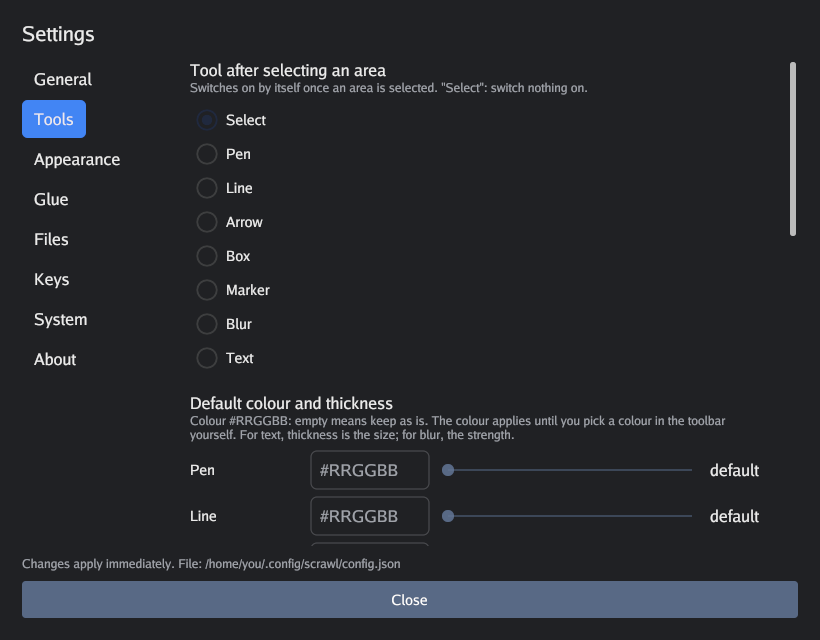
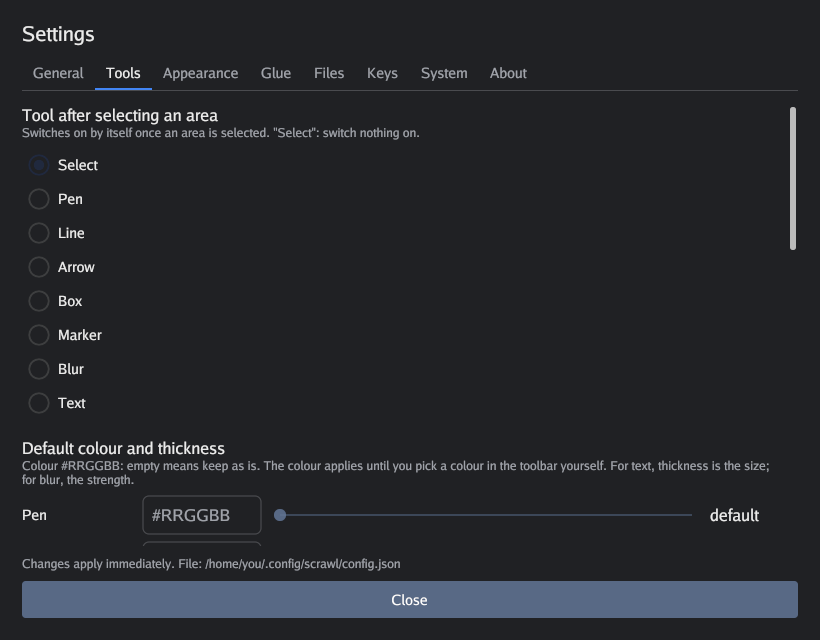
fix: tab click takes effect at once, tabs in a row at the top
Tab clicks were handled after the frame content was chosen, so the new tab was
drawn only with the next event (the mouse moved) and the click seemed late.
Now they are handled in apply, before the choice. The tabs became a horizontal
row above the content with the selected one underlined; a test checks that the
row fits in a window of minimum width in Russian and English.

diff --git a/internal/settingsui/settingsui.go b/internal/settingsui/settingsui.go
@@ -92,6 +92,7 @@ type state struct {
 	lang       widget.Enum        // язык интерфейса: auto, ru, en
 	tab        int                // выбранная вкладка
 	tabBtns    []widget.Clickable // кнопки вкладок
+	shownTab   int                // вкладка, чьё содержимое нарисовано в последнем кадре
 	checkUpd   widget.Bool        // проверять обновления при старте
 	update     task               // проверка обновлений
 	autostart  widget.Bool        // запуск значка при входе
@@ -110,6 +111,7 @@ func newState(store *settings.Store) *state {
 
 	s := &state{th: th, store: store}
 	s.list.Axis = layout.Vertical
+	s.tabBtns = make([]widget.Clickable, len(s.tabs()))
 	px := func(v float64) string { return fmt.Sprintf("%.1f px", v) }
 	s.dim = s.addSlider(0, 100, 1, func(v float64) string { return fmt.Sprintf("%.0f%%", v) },
 		func(c settings.Settings) float64 { return float64(c.DimPercent) },
@@ -207,7 +209,7 @@ func Run(store *settings.Store) {
 func loop(s *state) {
 	w := new(app.Window)
 	s.invalidate = w.Invalidate
-	w.Option(app.Title(i18n.T("Scrawl: настройки")), app.Size(unit.Dp(820), unit.Dp(640)), app.MinSize(unit.Dp(620), unit.Dp(360)))
+	w.Option(app.Title(i18n.T("Scrawl: настройки")), app.Size(unit.Dp(820), unit.Dp(640)), app.MinSize(unit.Dp(700), unit.Dp(360)))
 	var ops op.Ops
 	for {
 		switch e := w.Event().(type) {
@@ -241,6 +243,14 @@ func loop(s *state) {
 // apply приводит сохранённые настройки в соответствие с виджетами. Вызывается
 // на каждом кадре: ничего не пишет, пока значения не изменились.
 func (s *state) apply(gtx layout.Context) {
+	// Клик по вкладке обрабатывается до того, как кадр выберет, что рисовать:
+	// иначе содержимое сменится только на следующем кадре, а он не придёт,
+	// пока не будет нового события, и клик покажется запоздавшим.
+	for i := range s.tabBtns {
+		if s.tabBtns[i].Clicked(gtx) {
+			s.selectTab(i)
+		}
+	}
 	s.checkUpd.Update(gtx)
 	if want := s.checkUpd.Value; want != s.store.Get().CheckUpdates {
 		if err := s.store.Update(func(c *settings.Settings) { c.CheckUpdates = want }); err != nil {
@@ -1101,42 +1111,53 @@ func (s *state) selectTab(i int) {
 	}
 }
 
-// tabBar рисует боковую панель с вкладками.
+// tabBar рисует вкладки в ряд и под ним тонкую линию на всю ширину.
 func (s *state) tabBar(gtx layout.Context, tabs []settingsTab) layout.Dimensions {
-	if len(s.tabBtns) < len(tabs) {
-		s.tabBtns = make([]widget.Clickable, len(tabs))
-	}
+	return layout.Flex{Axis: layout.Vertical}.Layout(gtx,
+		layout.Rigid(func(gtx layout.Context) layout.Dimensions { return s.tabRow(gtx, tabs) }),
+		layout.Rigid(func(gtx layout.Context) layout.Dimensions {
+			h := gtx.Dp(1)
+			w := gtx.Constraints.Max.X
+			paint.FillShape(gtx.Ops, borderColor, clip.Rect{Max: image.Pt(w, h)}.Op())
+			return layout.Dimensions{Size: image.Pt(w, h)}
+		}),
+	)
+}
+
+// tabRow — сами вкладки: выбранная подчёркнута акцентным цветом, под курсором
+// подсвечивается.
+func (s *state) tabRow(gtx layout.Context, tabs []settingsTab) layout.Dimensions {
 	children := make([]layout.FlexChild, 0, len(tabs))
 	for i := range tabs {
 		i := i
-		if s.tabBtns[i].Clicked(gtx) {
-			s.selectTab(i)
-		}
 		children = append(children, layout.Rigid(func(gtx layout.Context) layout.Dimensions {
 			selected := i == s.tab
 			return s.tabBtns[i].Layout(gtx, func(gtx layout.Context) layout.Dimensions {
 				return layout.Stack{}.Layout(gtx,
 					layout.Expanded(func(gtx layout.Context) layout.Dimensions {
-						bg := color.NRGBA{}
-						switch {
-						case selected:
-							bg = accentColor
-						case s.tabBtns[i].Hovered():
-							bg = borderColor
+						size := gtx.Constraints.Min
+						if s.tabBtns[i].Hovered() && !selected {
+							paint.FillShape(gtx.Ops, borderColor, clip.UniformRRect(image.Rectangle{Max: size}, gtx.Dp(6)).Op(gtx.Ops))
 						}
-						rr := gtx.Dp(6)
-						paint.FillShape(gtx.Ops, bg, clip.UniformRRect(image.Rectangle{Max: gtx.Constraints.Min}, rr).Op(gtx.Ops))
-						return layout.Dimensions{Size: gtx.Constraints.Min}
+						if selected {
+							h := gtx.Dp(2)
+							paint.FillShape(gtx.Ops, accentColor, clip.Rect{Min: image.Pt(0, size.Y-h), Max: size}.Op())
+						}
+						return layout.Dimensions{Size: size}
 					}),
 					layout.Stacked(func(gtx layout.Context) layout.Dimensions {
-						return layout.Inset{Top: unit.Dp(9), Bottom: unit.Dp(9), Left: unit.Dp(12), Right: unit.Dp(12)}.Layout(gtx,
-							s.label(material.Body1, tabs[i].label, fgColor))
+						c := mutedColor
+						if selected || s.tabBtns[i].Hovered() {
+							c = fgColor
+						}
+						return layout.Inset{Top: unit.Dp(8), Bottom: unit.Dp(9), Left: unit.Dp(11), Right: unit.Dp(11)}.Layout(gtx,
+							s.label(material.Body2, tabs[i].label, c))
 					}),
 				)
 			})
-		}), layout.Rigid(layout.Spacer{Height: unit.Dp(2)}.Layout))
+		}))
 	}
-	return layout.Flex{Axis: layout.Vertical}.Layout(gtx, children...)
+	return layout.Flex{}.Layout(gtx, children...)
 }
 
 func (s *state) layout(gtx layout.Context) layout.Dimensions {
@@ -1144,30 +1165,21 @@ func (s *state) layout(gtx layout.Context) layout.Dimensions {
 	th := s.th
 	tabs := s.tabs()
 	s.tab = min(max(s.tab, 0), len(tabs)-1)
+	s.shownTab = s.tab
 	items := tabs[s.tab].rows
 
 	return layout.UniformInset(unit.Dp(22)).Layout(gtx, func(gtx layout.Context) layout.Dimensions {
 		return layout.Flex{Axis: layout.Vertical}.Layout(gtx,
 			layout.Rigid(s.label(material.H6, i18n.T("Настройки"), fgColor)),
+			layout.Rigid(layout.Spacer{Height: unit.Dp(10)}.Layout),
+			layout.Rigid(func(gtx layout.Context) layout.Dimensions { return s.tabBar(gtx, tabs) }),
 			layout.Rigid(layout.Spacer{Height: unit.Dp(14)}.Layout),
 			layout.Flexed(1, func(gtx layout.Context) layout.Dimensions {
-				return layout.Flex{}.Layout(gtx,
-					// Слева вкладки: их мало, но длинные названия на английском и русском
-					// должны помещаться, поэтому ширина фиксированная.
-					layout.Rigid(func(gtx layout.Context) layout.Dimensions {
-						gtx.Constraints.Min.X = gtx.Dp(150)
-						gtx.Constraints.Max.X = gtx.Dp(150)
-						return s.tabBar(gtx, tabs)
-					}),
-					layout.Rigid(layout.Spacer{Width: unit.Dp(18)}.Layout),
-					layout.Flexed(1, func(gtx layout.Context) layout.Dimensions {
-						list := material.List(th, &s.list)
-						return list.Layout(gtx, len(items), func(gtx layout.Context, i int) layout.Dimensions {
-							// Справа место под полосу прокрутки, чтобы она не лежала на элементах.
-							return layout.Inset{Right: unit.Dp(14)}.Layout(gtx, items[i])
-						})
-					}),
-				)
+				list := material.List(th, &s.list)
+				return list.Layout(gtx, len(items), func(gtx layout.Context, i int) layout.Dimensions {
+					// Справа место под полосу прокрутки, чтобы она не лежала на элементах.
+					return layout.Inset{Right: unit.Dp(14)}.Layout(gtx, items[i])
+				})
 			}),
 			layout.Rigid(layout.Spacer{Height: unit.Dp(10)}.Layout),
 			layout.Rigid(s.label(material.Caption, i18n.T("Изменения применяются сразу. Файл: ")+settings.Path(), mutedColor)),

diff --git a/internal/settingsui/settingsui_test.go b/internal/settingsui/settingsui_test.go
@@ -107,12 +107,12 @@ func TestRenderWindow(t *testing.T) {
 // прокручивается; в высоком влезает целиком.
 func TestContentScrollsInSmallWindow(t *testing.T) {
 	small := testState(t)
-	small.layout(frameContext(600, 560))
+	small.layout(frameContext(820, 700))
 	if !small.list.Position.BeforeEnd {
 		t.Error("в низком окне часть настроек должна быть ниже видимой области")
 	}
 	small.list.ScrollTo(len(small.rows()) - 1)
-	small.layout(frameContext(600, 560))
+	small.layout(frameContext(820, 700))
 	if small.list.Position.BeforeEnd {
 		t.Errorf("после прокрутки к последнему разделу конец списка должен быть виден: %+v", small.list.Position)
 	}
@@ -857,5 +857,31 @@ func TestTabs(t *testing.T) {
 	s.layout(frameContext(820, 700))
 	if s.tab != 2 {
 		t.Errorf("клик по вкладке: выбрана %d", s.tab)
+	}
+	// Содержимое меняется в том же кадре, где пришёл клик: следующего кадра может
+	// не быть до нового события, и клик казался бы запоздавшим.
+	s.tabBtns[5].Click()
+	s.layout(frameContext(820, 700))
+	if s.shownTab != 5 {
+		t.Errorf("после клика в этом же кадре нарисована вкладка %d, ожидали 5", s.shownTab)
+	}
+}
+
+// Ряд вкладок помещается в окно минимальной ширины на обоих языках.
+func TestTabBarFitsMinimumWidth(t *testing.T) {
+	defer i18n.SetLanguage(i18n.RU)
+	const minWindowDp, padding = 700, 44 // MinSize окна и отступы по 22 с каждой стороны
+	for _, lang := range []string{i18n.RU, i18n.EN} {
+		i18n.SetLanguage(lang)
+		s := testState(t)
+		gtx := layout.Context{
+			Ops:         new(op.Ops),
+			Constraints: layout.Constraints{Max: image.Pt(4000, 400)},
+			Metric:      unit.Metric{PxPerDp: 1, PxPerSp: 1},
+		}
+		dims := s.tabRow(gtx, s.tabs())
+		if dims.Size.X > minWindowDp-padding {
+			t.Errorf("%s: ряд вкладок %d dp шире доступных %d dp", lang, dims.Size.X, minWindowDp-padding)
+		}
 	}
 }
